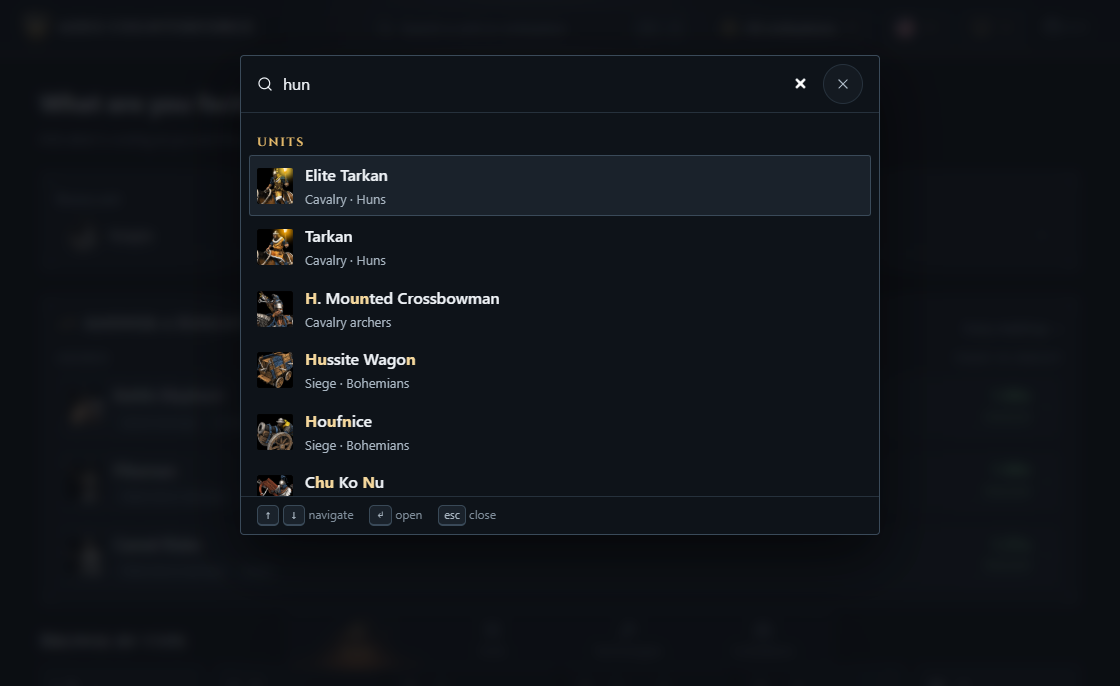
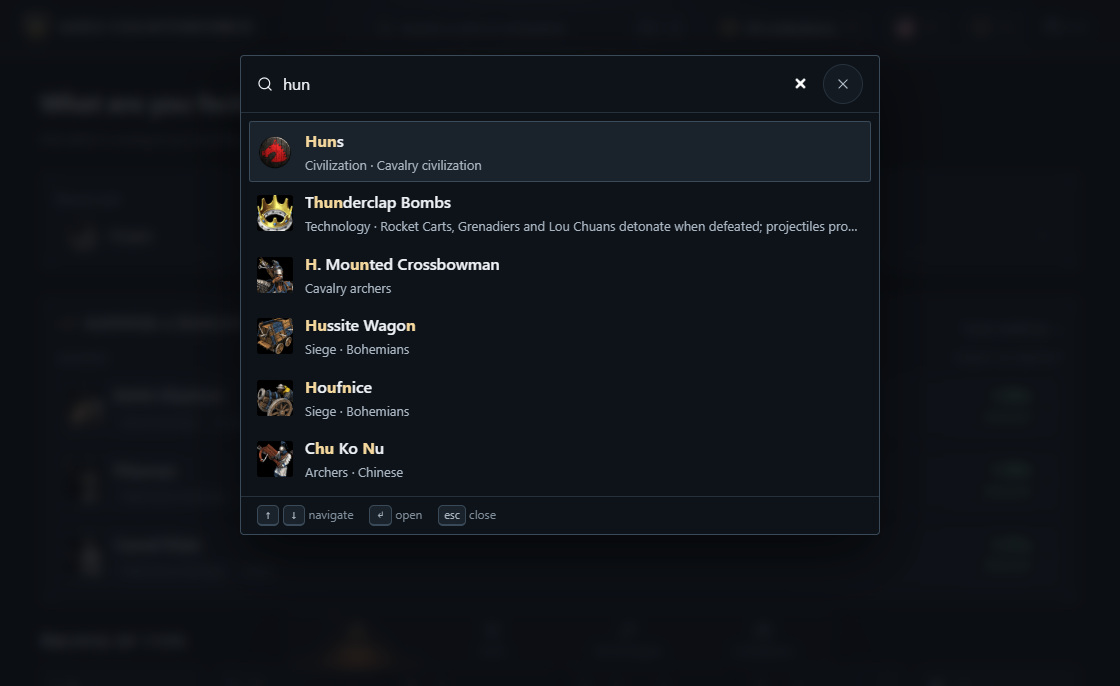
feat: list search results together with their kind on the line beneath

Changed region(s): [[0.2188, 0.1837, 0.7812, 0.7347]]

diff --git a/src/react/components/command-palette.tsx b/src/react/components/command-palette.tsx
@@ -1,14 +1,13 @@
-import { useEffect, useMemo, useRef, useState, type ReactNode } from 'react';
+import { useEffect, useRef, useState, type ReactNode } from 'react';
 import { useTranslation } from 'react-i18next';
 import { useNavigate } from 'react-router';
 import type { SearchDocument, SearchKind } from '../../services/search/search-index-builder.ts';
+import type { SearchHit } from '../../services/search/search-service.ts';
 import { useCommandPalette } from '../hooks/use-command-palette.ts';
 import { usePreferences } from '../hooks/use-preferences.ts';
 import { useUnitSearch } from '../hooks/use-unit-search.ts';
 import { GameIcon } from './game-icon.tsx';
 import { Icon } from './icon.tsx';
-
-const GROUP_ORDER: readonly SearchKind[] = ['unit', 'civilization', 'technology'];
 
 const ROUTE_PREFIX: Record<SearchKind, string> = {
     unit: '/unit/',
@@ -50,17 +49,17 @@ function PaletteDialog({ close }: { close: () => void }) {
     const [activeIndex, setActiveIndex] = useState(0);
 
     const outcome = useUnitSearch(query, preferences.civ);
-
-    const groups = useMemo(
-        () =>
-            GROUP_ORDER.map((kind) => ({
-                kind,
-                items: outcome.hits.filter((hit) => hit.document.kind === kind),
-            })).filter((group) => group.items.length > 0),
-        [outcome.hits],
-    );
-    const flat = useMemo(() => groups.flatMap((group) => group.items), [groups]);
+    const flat = outcome.hits;
     const active = Math.min(activeIndex, Math.max(0, flat.length - 1));
+
+    // A unit's category already says what it is; the other kinds name themselves first.
+    const subtitleOf = (hit: SearchHit): string =>
+        [
+            hit.document.categoryKey ? t(`categories.${hit.document.categoryKey}`) : t(`search.kinds.${hit.document.kind}`),
+            hit.document.subtitle,
+        ]
+            .filter(Boolean)
+            .join(' · ');
 
     useEffect(() => {
         inputRef.current?.focus();
@@ -137,47 +136,36 @@ function PaletteDialog({ close }: { close: () => void }) {
                     {flat.length === 0 ? (
                         <p className="empty">{query ? t('search.empty', { query }) : t('search.hint')}</p>
                     ) : (
-                        groups.map((group) => (
-                            <div key={group.kind}>
-                                <div className="palette__group section-label">{t(`search.groups.${group.kind}`)}</div>
-                                {group.items.map((hit) => {
-                                    const index = flat.indexOf(hit);
-                                    const subtitle = [
-                                        hit.document.categoryKey ? t(`categories.${hit.document.categoryKey}`) : '',
-                                        hit.document.subtitle,
-                                    ]
-                                        .filter(Boolean)
-                                        .join(' · ');
-
-                                    return (
-                                        <button
-                                            key={hit.document.id}
-                                            type="button"
-                                            className="palette__item"
-                                            data-active={index === active}
-                                            onMouseMove={() => { setActiveIndex(index); }}
-                                            onClick={() => { go(hit.document); }}
-                                            ref={(node) => {
-                                                if (index === active) node?.scrollIntoView({ block: 'nearest' });
-                                            }}
-                                        >
-                                            <GameIcon
-                                                path={hit.document.icon}
-                                                alt=""
-                                                className={
-                                                    hit.document.kind === 'civilization' ? 'icon--civ' : undefined
-                                                }
-                                            />
-                                            <span className="list-item__body">
-                                                <span className="list-item__title">
-                                                    {highlight(hit.document.title, hit.positions)}
-                                                </span>
-                                                <span className="list-item__subtitle">{subtitle}</span>
+                        flat.map((hit, index) => (
+                            <button
+                                key={hit.document.id}
+                                type="button"
+                                className="palette__item"
+                                data-active={index === active}
+                                onMouseMove={() => { setActiveIndex(index); }}
+                                onClick={() => { go(hit.document); }}
+                                ref={(node) => {
+                                    if (index === active) node?.scrollIntoView({ block: 'nearest' });
+                                }}
+                            >
+                                <GameIcon
+                                    path={hit.document.icon}
+                                    alt=""
+                                    className={hit.document.kind === 'civilization' ? 'icon--civ' : undefined}
+                                />
+                                <span className="list-item__body">
+                                    <span className="list-item__title">
+                                        {highlight(hit.document.title, hit.positions)}
+                                        {hit.alias ? (
+                                            <span className="palette__alias">
+                                                {' ('}
+                                                {highlight(hit.alias.text, hit.alias.positions)})
                                             </span>
-                                        </button>
-                                    );
-                                })}
-                            </div>
+                                        ) : null}
+                                    </span>
+                                    <span className="list-item__subtitle">{subtitleOf(hit)}</span>
+                                </span>
+                            </button>
                         ))
                     )}
                 </div>

diff --git a/tests/feature/app.test.tsx b/tests/feature/app.test.tsx
@@ -36,6 +36,32 @@ describe('App', () => {
         expect(screen.getByRole('dialog')).toBeDefined();
     });
 
+    it('lists every kind of result together, the best first, with its kind on the line beneath', async () => {
+        const user = userEvent.setup();
+        render(<App locale="pt-BR" />);
+        await user.click(screen.getAllByRole('button', { name: /Buscar unidade/ })[0]);
+        const dialog = screen.getByRole('dialog');
+
+        await user.type(within(dialog).getByRole('searchbox'), 'hun');
+
+        await waitFor(() => {
+            expect(dialog.querySelector('.palette__item')?.textContent).toMatch(/^Hunos.*Civilização/);
+        });
+    });
+
+    it('shows the name in another language that the search matched', async () => {
+        const user = userEvent.setup();
+        render(<App locale="pt-BR" />);
+        await user.click(screen.getAllByRole('button', { name: /Buscar unidade/ })[0]);
+        const dialog = screen.getByRole('dialog');
+
+        await user.type(within(dialog).getByRole('searchbox'), 'arch');
+
+        await waitFor(() => {
+            expect(dialog.querySelector('.palette__item .list-item__title')?.textContent).toBe('Arqueiro (Archer)');
+        });
+    });
+
     it('closes the command palette from its close button', async () => {
         const user = userEvent.setup();
         render(<App locale="pt-BR" />);

diff --git a/src/react/styles/palette.css b/src/react/styles/palette.css
@@ -64,10 +64,6 @@
     overscroll-behavior: contain;
 }
 
-.palette__group {
-    padding: var(--space-3) var(--space-2) var(--space-1);
-}
-
 .palette__item {
     display: flex;
     align-items: center;
@@ -88,6 +84,11 @@
     background: none;
     color: var(--gold-soft);
     font-weight: 700;
+}
+
+.palette__alias {
+    color: var(--text-muted);
+    font-weight: 400;
 }
 
 .palette__footer {

diff --git a/README.md b/README.md
@@ -76,10 +76,12 @@ the numbers follow.
 
 ### Find anything from anywhere
 
-<img src="docs/screenshots/search-dark.png" alt="The search palette open on the query hun, listing the Tarkan, the Hussite Wagon and other units">
+<img src="docs/screenshots/search-dark.png" alt="The search palette open on the query hun: the Huns civilization first, then a technology and units, each with its kind on the line beneath">
 
-`Ctrl` + `K` (`Cmd` + `K` on a Mac) opens one search across units, civilizations and technologies. It
-matches loosely and ignores accents in all six languages, and the keyboard alone takes you from the
+`Ctrl` + `K` (`Cmd` + `K` on a Mac) opens one search across units, civilizations and technologies,
+ranked together, with the kind of each result on the line beneath it. It matches loosely and ignores
+accents, and a name typed in any of the six languages finds the item too, with that name shown beside
+the title: in Portuguese, *arch* brings up Arqueiro (Archer). The keyboard alone takes you from the
 query to the page.
 
 ### And also
